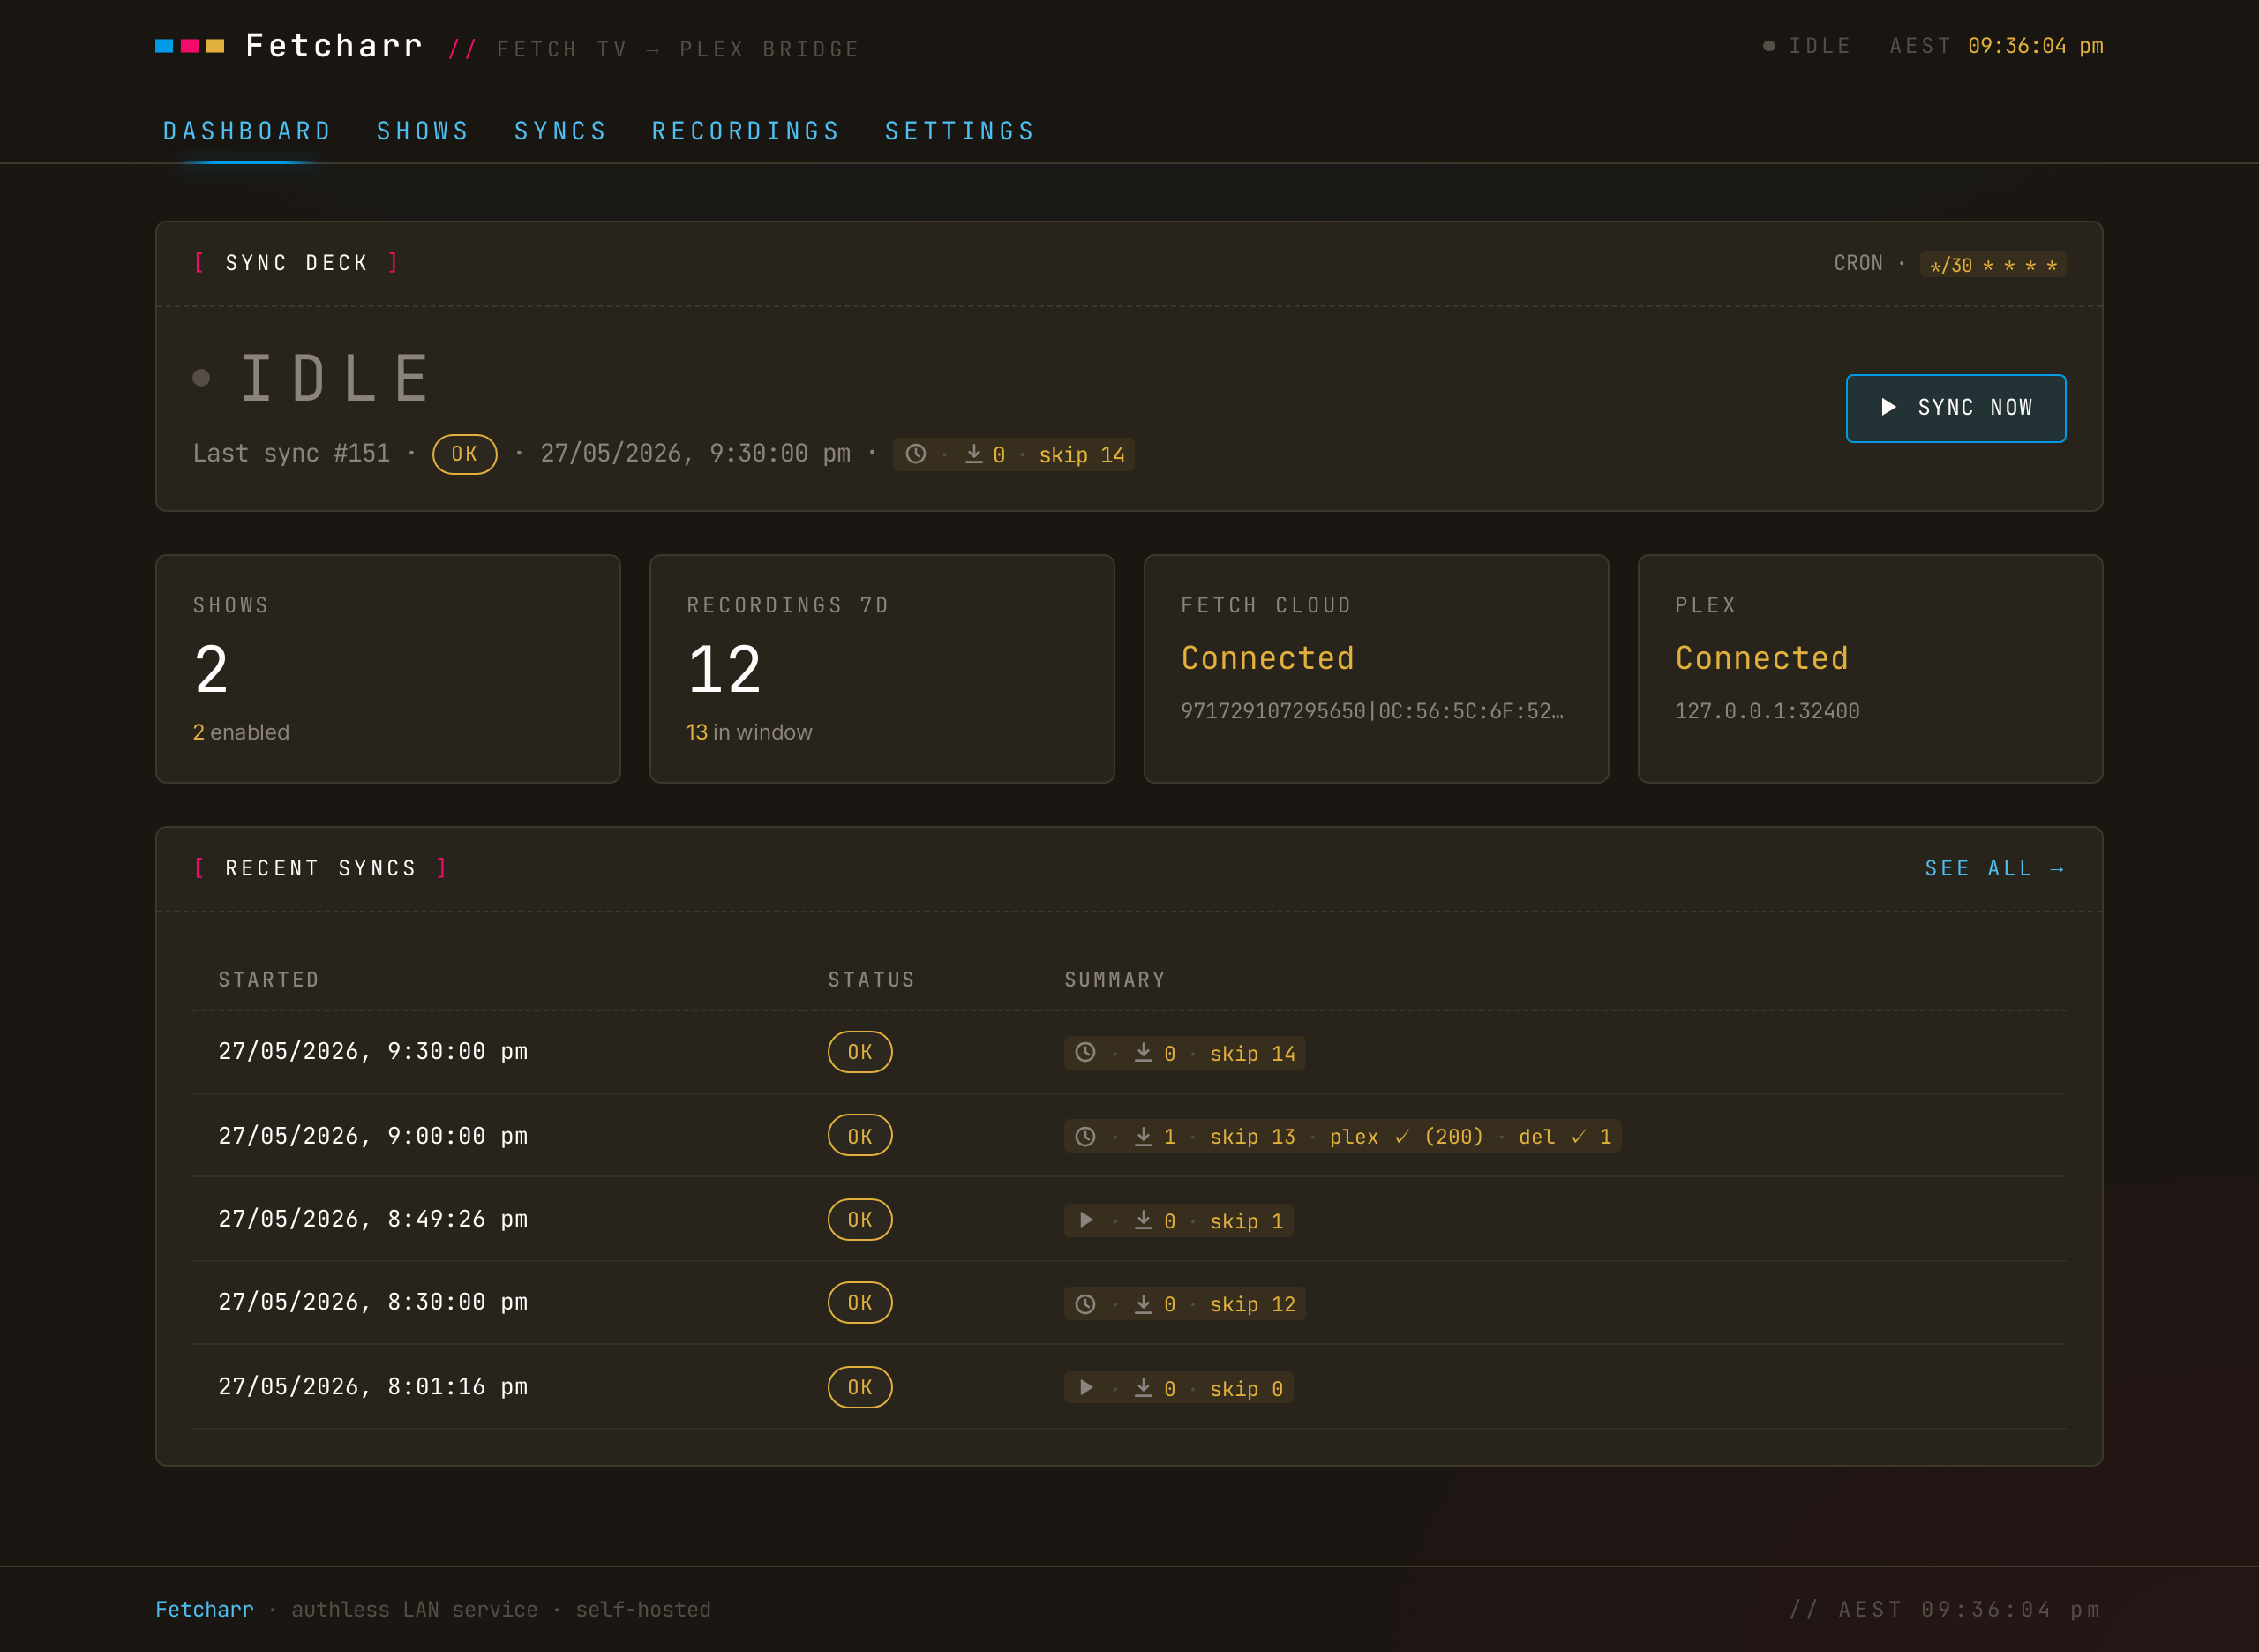
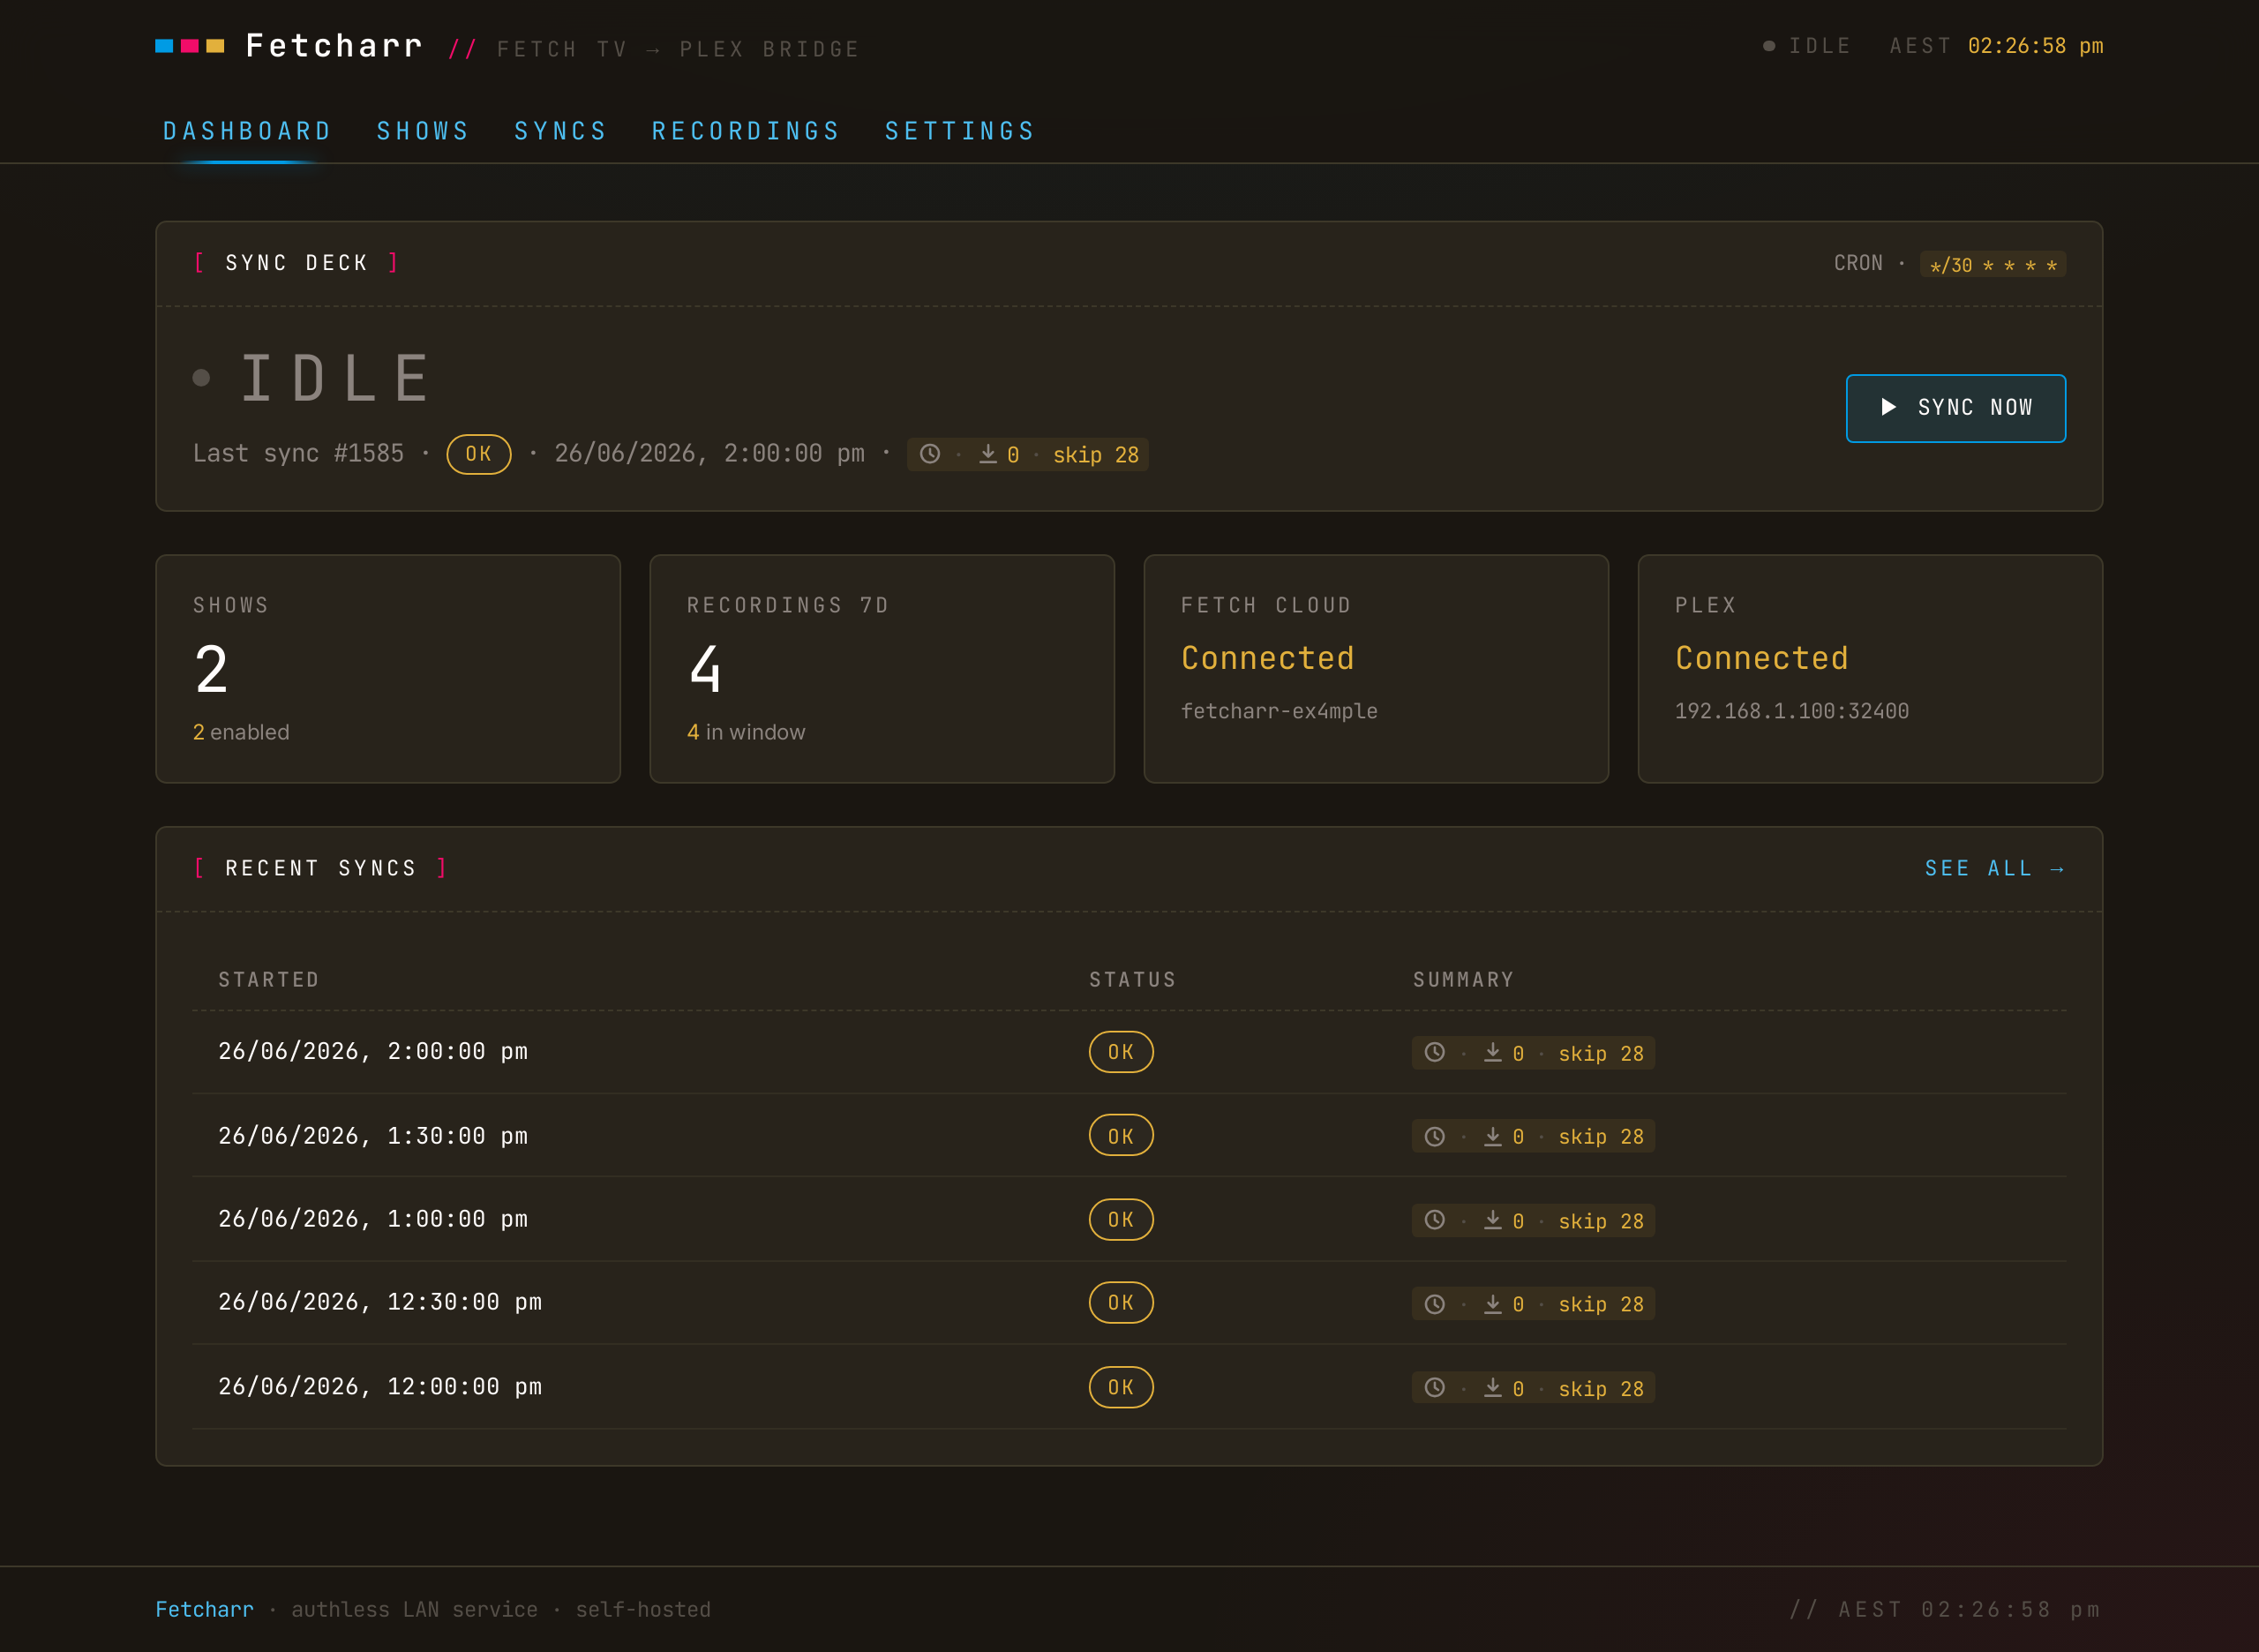
Tightened the README and deep-dive prose, added a Contributing section and masked Settings and dashboard screenshots, and extended the capture script to shoot the Settings tab and sanitise sensitive fields.

diff --git a/README.md b/README.md
@@ -23,10 +23,11 @@
 - [Prerequisites](#prerequisites)
 - [Quick start](#quick-start)
 - [Configuration](#configuration)
-- [Troubleshooting](#troubleshooting)
 - [Security](#security)
 - [Technical deep dive](#technical-deep-dive)
+- [Troubleshooting](#troubleshooting)
 - [Disclaimer](#disclaimer)
+- [Contributing](#contributing)
 - [Support](#support)
 - [Licence](#licence)
 
@@ -34,31 +35,31 @@
 
 Your Fetch TV box records the shows you tell it to, then the recordings sit on the box, watchable only through Fetch's own interface. **Fetcharr** watches the box on your LAN, downloads new episodes of shows you mark to follow, drops the files into your Plex TV library, pokes Plex to scan, and optionally deletes the recording from the Fetch box once Plex confirms the file.
 
-It's the missing automation layer if your media stack is Fetch TV → Plex: schedule recordings on the box as usual, and they turn up in Plex named, foldered, and ready to play.
+If your media stack is Fetch TV → Plex, Fetcharr is the automation in between: schedule recordings on the box as usual, and they turn up in Plex named and foldered.
 
 <p align="center">
-  <img src="docs/img/screenshot-dashboard.png" alt="Dashboard tab: sync deck, tally cards, recent syncs, integration status" width="100%"/>
-  <br/><em>Dashboard: live SYNC/IDLE deck, tally cards, and latest sync outcomes.</em>
+  <img src="docs/img/screenshot-dashboard.png" alt="Dashboard" width="100%"/>
+  <br/><em>Dashboard</em>
 </p>
 
 <p align="center">
-  <img src="docs/img/screenshot-shows.png" alt="Shows tab: per-show tracking table and add-show form" width="100%"/>
-  <br/><em>Shows: per-show tracking, destination folder + season template, per-show sync.</em>
+  <img src="docs/img/screenshot-shows.png" alt="Shows" width="100%"/>
+  <br/><em>Shows</em>
 </p>
 
 <p align="center">
-  <img src="docs/img/screenshot-recordings.png" alt="Recordings tab: filters, sortable columns, tombstoned rows" width="100%"/>
-  <br/><em>Recordings: filters, sortable headers, easily identifiable rows already deleted from the Fetch box, etc.</em>
+  <img src="docs/img/screenshot-recordings.png" alt="Recordings" width="100%"/>
+  <br/><em>Recordings</em>
 </p>
 
 <p align="center">
-  <img src="docs/img/screenshot-syncs.png" alt="Syncs tab: activity filter chips, sync history table" width="100%"/>
-  <br/><em>Syncs: activity-type filters over a capped sync history.</em>
+  <img src="docs/img/screenshot-syncs.png" alt="Syncs" width="100%"/>
+  <br/><em>Syncs</em>
 </p>
 
 ## What Fetcharr isn't
 
-- ❌ **An indexer integration:** (e.g. Sonarr / Radarr / Prowlarr) Fetcharr only consumes what Fetch has already recorded; it doesn't tell Fetch *what* to record. Use your Fetch TV box's own EPG to schedule recordings.
+- ❌ **An indexer integration** (Sonarr / Radarr / Prowlarr): Fetcharr only consumes what Fetch has already recorded; it doesn't tell Fetch *what* to record. Use the box's own EPG to schedule recordings.
 - ❌ **Authenticated:** designed for trusted LAN deployments. CSRF, rate-limiting, and a strict CSP are in place, but there's no login. Don't expose it to the internet (see [Security](#security)).
 - ❌ **A remuxer / transcoder:** files land as `.ts` from the box. Add Tdarr or similar downstream if you need `.mkv`.
 - ❌ **A notifier:** no Discord / ntfy / push integration.
@@ -75,8 +76,8 @@ It's the missing automation layer if your media stack is Fetch TV → Plex: sche
 - **In-progress recording protection**: refuses to download a half-recorded show. Fetch reports misleading sizes during live record; Fetcharr catches the sentinels (and HEAD-probes stale DLNA metadata) so you never end up with truncated files.
 - **Resumable, truncation-aware downloads**: HTTP Range resume across syncs; if on-disk bytes fall short of what Fetch reported, the row stays `partial` and the next sync picks up the remainder.
 - **Plex integration**: section refresh after every sync that downloaded something, plus a Refresh Plex now button.
-- **Optional delete-from-Fetch**: once Plex confirms the file, free up the box. This goes through Fetch's cloud API because the box's LAN-side delete is broken; the [deep dive](docs/DEEP_DIVE.md#why-delete-from-fetch-goes-through-the-cloud-not-lan) has the full story.
-- **Self-housekeeping**: sync history auto-prunes to the latest 500 rows; recording rows age out 30 days after delete-from-Fetch. No manual cleanup.
+- **Optional delete-from-Fetch**: once Plex confirms the file, free up the box. This goes through Fetch's cloud API because the box's LAN-side delete is broken; [`docs/DEEP_DIVE.md`](docs/DEEP_DIVE.md#why-delete-from-fetch-goes-through-the-cloud-not-lan) has the full story.
+- **Self-housekeeping**: sync history auto-prunes to the latest 500 rows; recording rows age out 30 days after delete-from-Fetch.
 - **TZ-aware UI**: container `TZ` propagates to the browser; timestamps render in that zone regardless of which device hits the page.
 - **Danger Zone**: one-click `NUKE ALL STATE` reset back to the welcome wizard. DB only; downloaded media files untouched.
 - **Authless LAN service**: SQLite-backed, single Docker container, no external runtime dependencies once configured.
@@ -126,7 +127,7 @@ docker compose logs -f
 
 Browse to `http://<host-ip>:8124`. The first visit opens a setup wizard that walks you through the Fetch box (with Auto-discover), storage (with a TEST PATH button), Plex, and the optional Fetch Cloud step. Everything is editable later in Settings, and the wizard can be re-opened from there at any time.
 
-That covers it: mark shows to follow on the Shows tab, and Fetcharr syncs them on the schedule you set.
+Mark shows to follow on the Shows tab and Fetcharr syncs them on the schedule you set.
 
 ### Updating
 
@@ -151,7 +152,20 @@ The Fetch TV box address and all integration credentials (Plex token, Fetch clou
 | `PUID`/`PGID`     | UID/GID to run as; match the owner of your bind-mounted folders                                                   |
 | `FETCHARR_PORT`   | Host port to serve on (default `8124`)                                                                            |
 
-The full environment reference, including the settings fallback chain, is in the [deep dive](docs/DEEP_DIVE.md#full-environment-reference).
+The full environment reference, including the settings fallback chain, is in [`docs/DEEP_DIVE.md`](docs/DEEP_DIVE.md#full-environment-reference).
+
+<p align="center">
+  <img src="docs/img/screenshot-settings.png" alt="Settings" width="100%"/>
+  <br/><em>Settings</em>
+</p>
+
+## Security
+
+Fetcharr has no login; anyone who can reach the port can view state and change settings. CSRF protection, rate limiting, a strict CSP, and `noindex` headers are all in place, but the design assumes a trusted home LAN: don't port-forward or reverse-proxy it to the internet. Supply-chain hardening, the HTTP security headers, and the rationale behind each measure are covered in [`docs/DEEP_DIVE.md`](docs/DEEP_DIVE.md#security-model); vulnerability reporting and accepted residual risks are in [SECURITY.md](SECURITY.md).
+
+## Technical deep dive
+
+Architecture diagrams, the sync state machine, the delete-from-Fetch cloud rationale, the full environment reference, Docker deployment, the security model, local development, and more are all in [`docs/DEEP_DIVE.md`](docs/DEEP_DIVE.md).
 
 ## Troubleshooting
 
@@ -186,14 +200,6 @@ The full environment reference, including the settings fallback chain, is in the
 
 - Set `PUID`/`PGID` to match the owner of the bind-mounted host folders.
 
-## Security
-
-Fetcharr has no login; anyone who can reach the port can view state and change settings. CSRF protection, rate limiting, a strict CSP, and `noindex` headers are all in place, but the design assumes a trusted home LAN: don't port-forward or reverse-proxy it to the internet. Supply-chain hardening, the HTTP security headers, and the rationale behind each measure are covered in the [deep dive](docs/DEEP_DIVE.md#security-model); vulnerability reporting and accepted residual risks are in [SECURITY.md](SECURITY.md).
-
-## Technical deep dive
-
-The architecture diagram, the sync state machine, the delete-from-Fetch cloud rationale, the full environment reference, Docker deployment internals, the security model, local development setup, project layout, and testing notes are all in [`./docs/DEEP_DIVE.md`](docs/DEEP_DIVE.md)**.
-
 ## Disclaimer
 
 This project:
@@ -205,13 +211,17 @@ This project:
 - Is intended for educational and experimental purposes only.
 - Is provided as-is with no warranty; use at your own risk.
 
+## Contributing
+
+If you hit a problem or want to compare notes, start a thread in [Discussions](https://github.com/furey/fetcharr/discussions).
+
 ## Support
 
 If you've found this project helpful consider supporting my work through:
 
 [Buy Me a Coffee](https://www.buymeacoffee.com/furey) | [GitHub Sponsorship](https://github.com/sponsors/furey)
 
-Contributions help me continue developing and improving this tool, allowing me to dedicate more time to add new features and ensuring it remains a valuable resource for the community.
+Your support helps me keep developing the project and adding new features.
 
 ## Licence
 

diff --git a/docs/DEEP_DIVE.md b/docs/DEEP_DIVE.md
@@ -1,6 +1,6 @@
 # Technical Deep Dive
 
-The technical companion to the [README](../README.md): what Fetcharr is doing under the hood, and why it works the way it does.
+The technical companion to [`README.md`](../README.md): what Fetcharr is doing under the hood, and why it works the way it does.
 
 ## Contents
 
@@ -268,11 +268,14 @@ The wider sync flow (DB transitions, `downloadFile` invocation, Plex notify) is 
 
 ## Regenerating the README screenshots
 
-The PNGs under `docs/img/` are captured from the running app by `scripts/capture-screenshots.sh`. The script pulls the official Playwright Docker image (no host install required), drives headless Chromium across all four tabs, and writes the screenshots back into `docs/img/` with the right ownership.
+The PNGs under `docs/img/` are captured from the running app by `scripts/capture-screenshots.sh`. The script pulls the official Playwright Docker image (no host install required), drives headless Chromium across all five tabs, and writes the screenshots back into `docs/img/` with the right ownership.
 
 ```sh
 # fetcharr container must be up + reachable at $FETCHARR_URL (default http://localhost:8124)
 ./scripts/capture-screenshots.sh
+
+# Re-shoot a single tab (dashboard, shows, syncs, recordings, settings):
+./scripts/capture-screenshots.sh settings
 
 # Or point at a remote instance / pin a different Playwright image:
 FETCHARR_URL=http://nas.lan:8124 \
@@ -280,4 +283,4 @@ PLAYWRIGHT_IMAGE=mcr.microsoft.com/playwright:v1.50.0-noble \
   ./scripts/capture-screenshots.sh
 ```
 
-The captures themselves are configured in `scripts/capture-screenshots.mjs` (viewport 1280×936, viewport-only clip so every shot has the same aspect ratio, 2× device-scale).
+The captures themselves are configured in `scripts/capture-screenshots.mjs` (viewport 1280×936, viewport-only clip so every shot has the same aspect ratio, 2× device-scale). Before the Settings shot, the script rewrites the `/api/settings` response in-page so no real box IP, Plex URL, host paths, or Fetch cloud credentials reach a committed PNG.